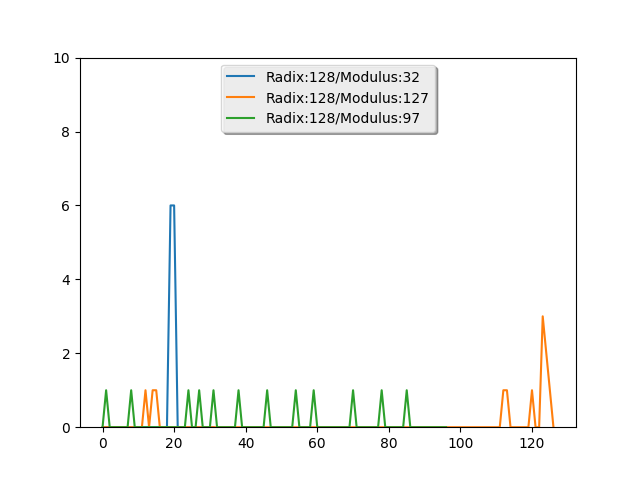
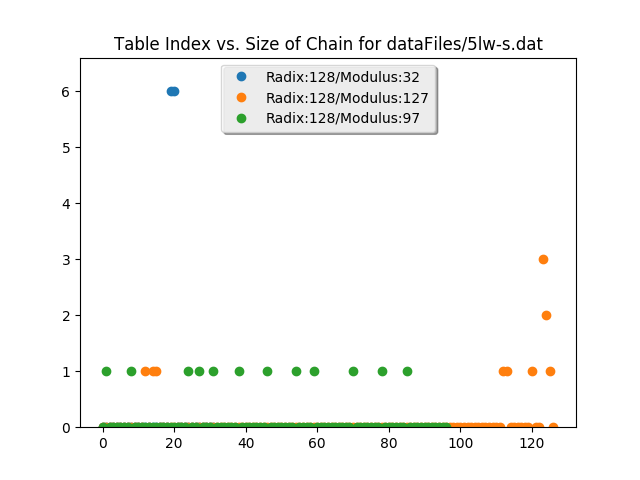
Modified plotting, new plot added

diff --git a/src/plot.py b/src/plot.py
@@ -36,12 +36,17 @@ def get_repeat_plot(fileName, radix,modulus):
 
 
 def test_modulus_radix_pairs(fileName, outFileName, moduli, radices): 
-	fig, axis = plt.subplots()
-	axis.set_ylim(0,10)
+	plt.title("Table Index vs. Size of Chain for " + fileName)
+	ax = plt.subplot()
+	max_repeat = 0
 	for modulus in moduli:
 		for radix in radices:
 			indices, repeats = get_repeat_plot(fileName, radix, modulus)
-			plt.plot(indices, repeats, label='Radix:' + str(radix) + '/Modulus:'  + str(modulus))
+			for r in repeats:
+				if r > max_repeat:
+					max_repeat = r
+			ax.plot(indices, repeats,' o', label='Radix:' + str(radix) + '/Modulus:'  + str(modulus))
+	ax.set_ylim(0,max_repeat+max_repeat*0.1)
 	legend = plt.legend(loc='upper center', shadow=True)
 	plt.savefig(outFileName)
 	plt.show()
@@ -49,3 +54,8 @@ def test_modulus_radix_pairs(fileName, outFileName, moduli, radices):
 radices = [128]
 moduli = [32, 127, 97]
 test_modulus_radix_pairs('dataFiles/5lw-s.dat', 'plots/5lw-s-plot.png', moduli, radices)
+
+
+radices = [138]
+moduli = [132, 2027, 307]
+test_modulus_radix_pairs('dataFiles/5lw-m.dat', 'plots/5lw-m-plot.png', moduli, radices)
